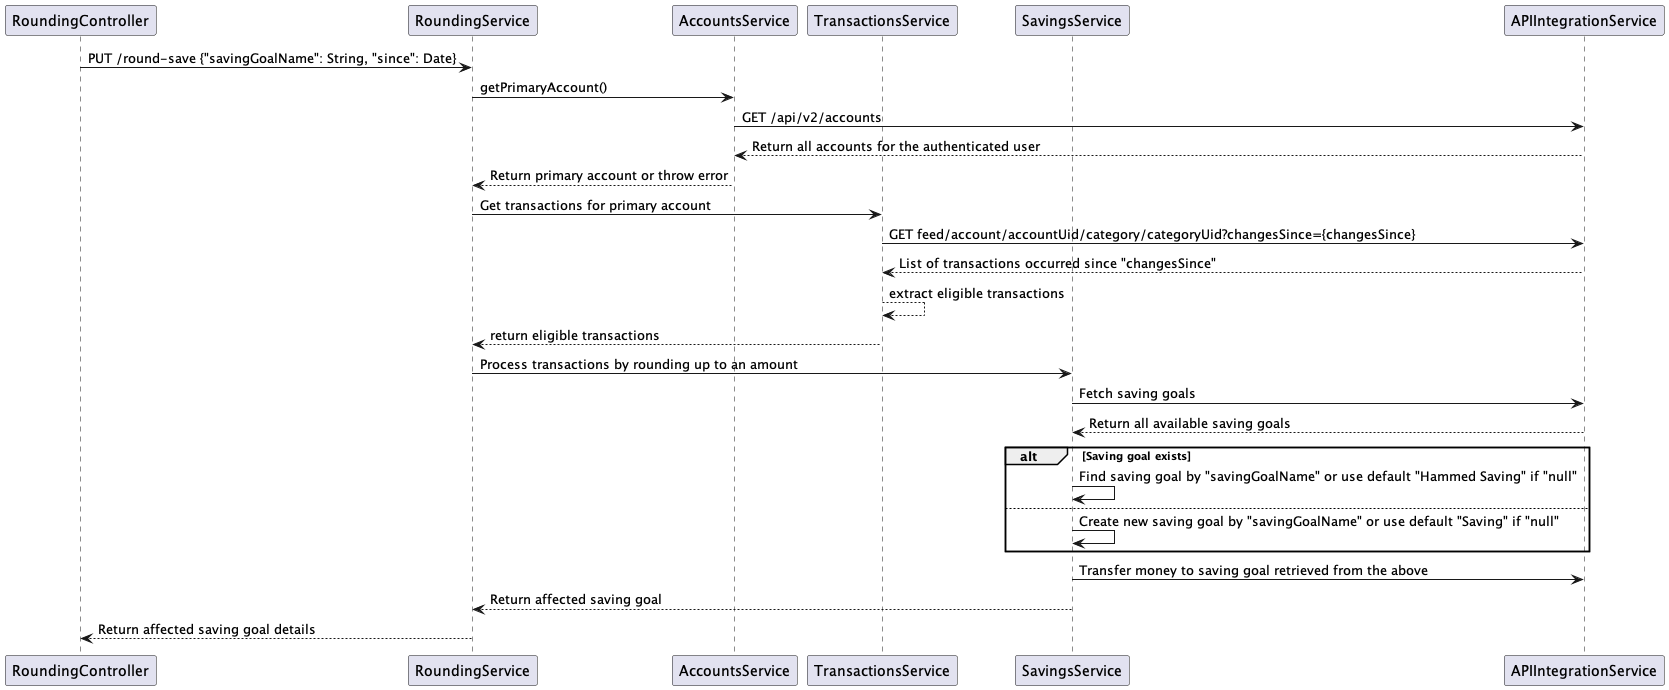
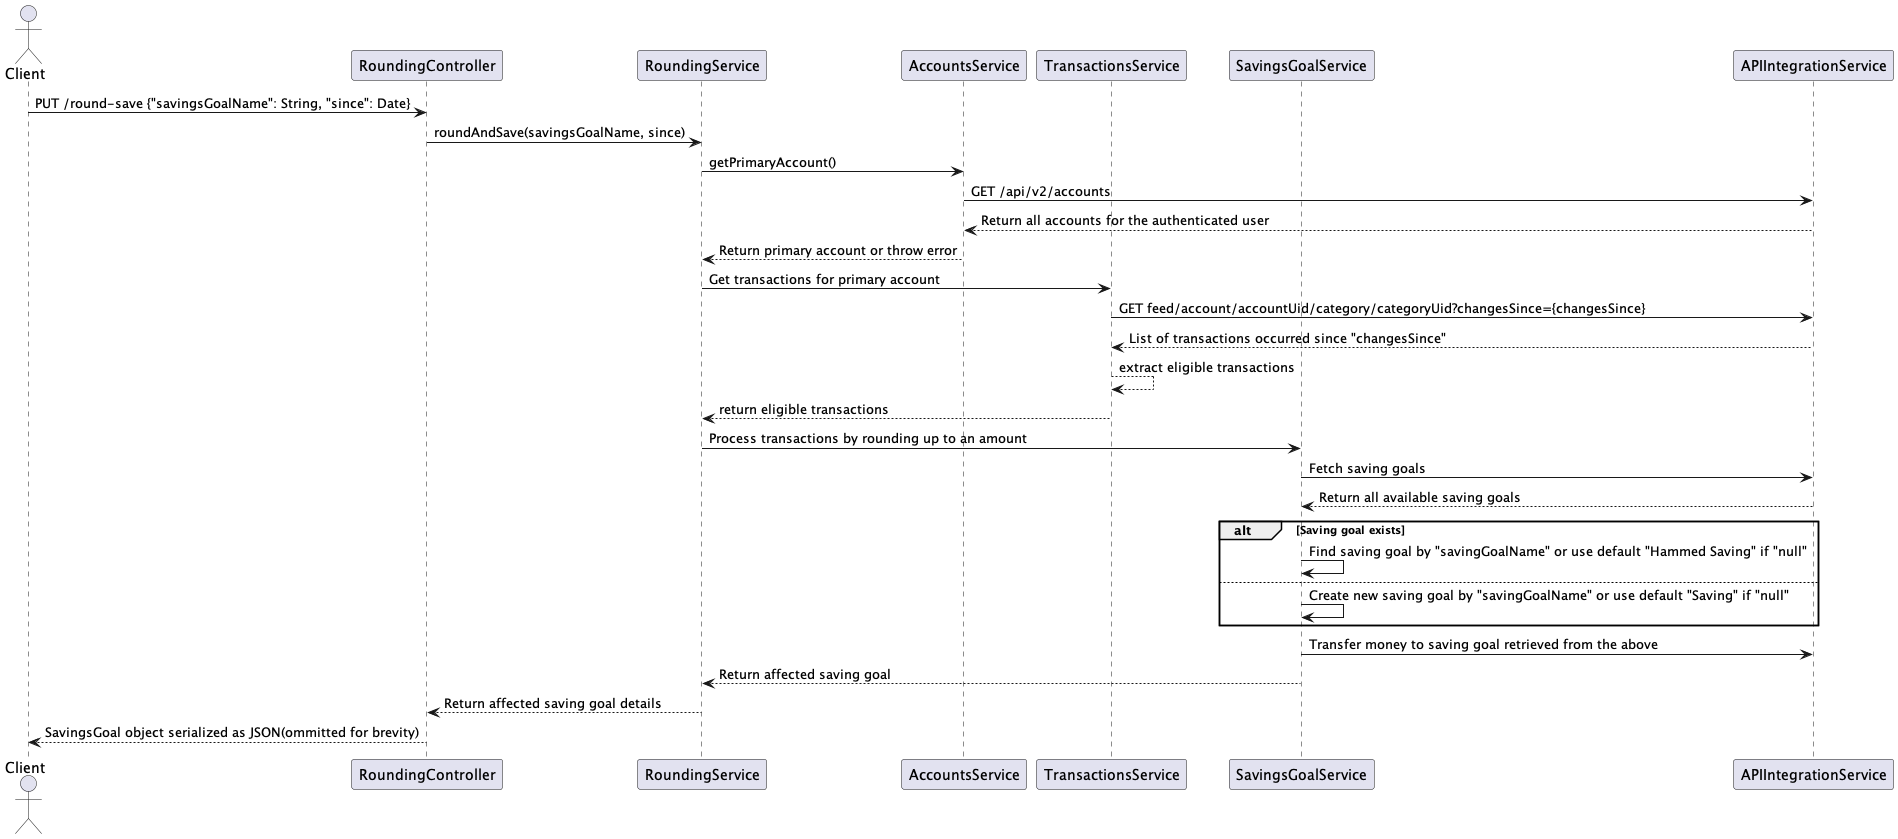
update README

diff --git a/README.md b/README.md
@@ -35,28 +35,47 @@ curl -X PUT \
 ![Flow Diagram](https://github.com/adigunhammedolalekan/starling-challenge/blob/main/flows/roundup_flows.png)
 
 * Client make an API call to the endpoint `PUT /round-save`
-  * ```json
-    PUT /round-save
-    {
-        "savingsGoalName": "Hammed Holiday",
-        "since": "2024-06-20
-    }
-    ```
+* ```json
+  PUT /round-save
+  {
+      "savingsGoalName": "Hammed Holiday",
+      "since": "2024-06-20
+  }
+  ```
+  ```json
+  // Sample Response
+  {
+    "savingsGoalUid": "62ad6b8f-f00b-44c8-892f-3d2ea0d44c8e",
+    "name": "Hammed Savings",
+    "state": "ACTIVE",
+    "target": null,
+    "totalSaved": {
+        "currency": "GBP",
+        "minorUnits": 800
+    },
+    "savedPercentage": null,
+    "active": true
+  }
+  ```
+### Request description
   * savingsGoalName: Optional - the name of the SavingsGoal client wishes to save the rounded amount. Defaults to `Hammed Savings` if null is given
   * since: Optional - Date from when transactions rounding should start. Defaults to 1week ago if null is given
+
+### How it works - Breakdown
 * RoundingController receives the request and pass it to RoundingService
 * RoundingService:
-  * fetch primary account using APIIntegrationService
-  * fetch transactions using the parameter from the request and the fetched account
-    * filter out non-eligible transactions using the criteria:
+  * fetch primary account using AccountsService + APIIntegrationService
+  * fetch transactions using the parameter from the request and the customer account details and then filter out ineligible transactions using the following criteria
       * direction = OUT
       * status = SETTLED
       * amount > 0
       * source != INTERNAL_TRANSFERS
       * spendingCategory != SAVING
-    * filtering out the non-eligible transactions ensures we only round transactions that are outbound, completed and not a transaction generated by transferring to the same or another SavingGoal 
-  * call SavingsGoalService passing the account, the savingsGoalName and the eligible transactions
+  
+    
+  filtering out the ineligible transactions ensures we only round transactions that are a result of outbound payments, are completed and not a transaction generated by transferring to the same or another SavingsGoal 
+  * call SavingsGoalService passing the customer account, the savingsGoalName and the eligible transactions
 * SavingsGoalService:
-  * calculate the total rounded amount
-  * create or get a SavingsGoal - this is based on if the name already exists
-  * add money to the SavingsGoal from the step above
+  * calculate the total rounded amount from the eligible transactions
+  * create or get a SavingsGoal - this is done by fetching all existing SavingsGoal for the customer and then finding the given savingsGoalName. If non is found, we create a new SavingsGoal using the given name, otherwise, no savingsGoalName was given so we use the default 'Hammed Savings'.
+  * add money to the SavingsGoal created/retrieved from the step above
